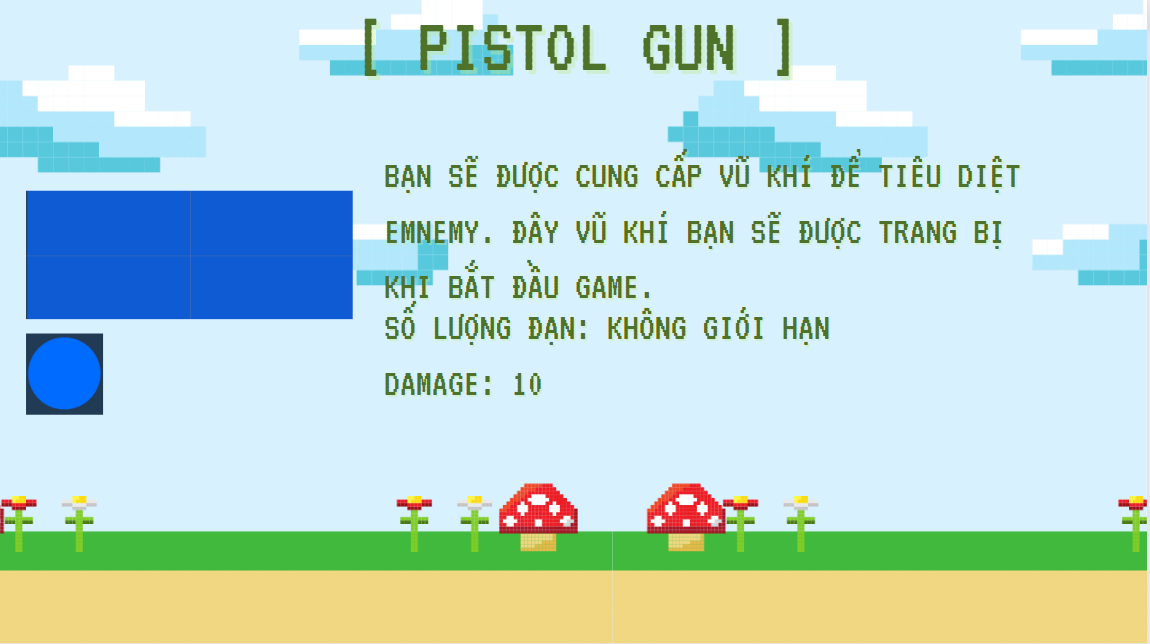
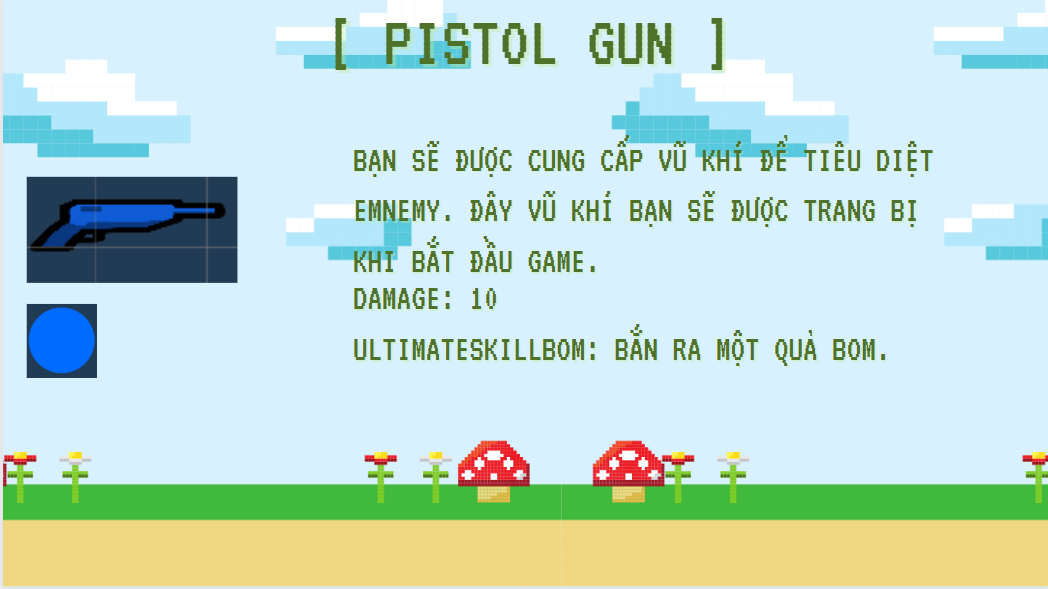
update Weapon

diff --git a/Assets/Scripts/Weapon/Weapon.cs b/Assets/Scripts/Weapon/Weapon.cs
@@ -43,15 +43,31 @@ public class Weapon : MonoBehaviour
         {
             case WeaponStyle.Pistol:
                 quantity = 1000;
+                damage = 10;
+                norCd = 0.5f;
+                ultCd = 5f;
+                bulletForce = 15;
                 break;
             case WeaponStyle.FartGun:
                 quantity = 10;
+                damage = 15;
+                norCd = 0.2f;
+                ultCd = 6f;
+                bulletForce = 30;
                 break;
             case WeaponStyle.StrongGun:
                 quantity = 5;
+                damage = 50;
+                norCd = 0.8f;
+                ultCd = 7f;
+                bulletForce = 15;
                 break;
             case WeaponStyle.Bom:
                 quantity = 1;
+                damage = 100;
+                norCd = 1f;
+                ultCd = 10f;
+                bulletForce = 10;
                 break;
         }
     }
